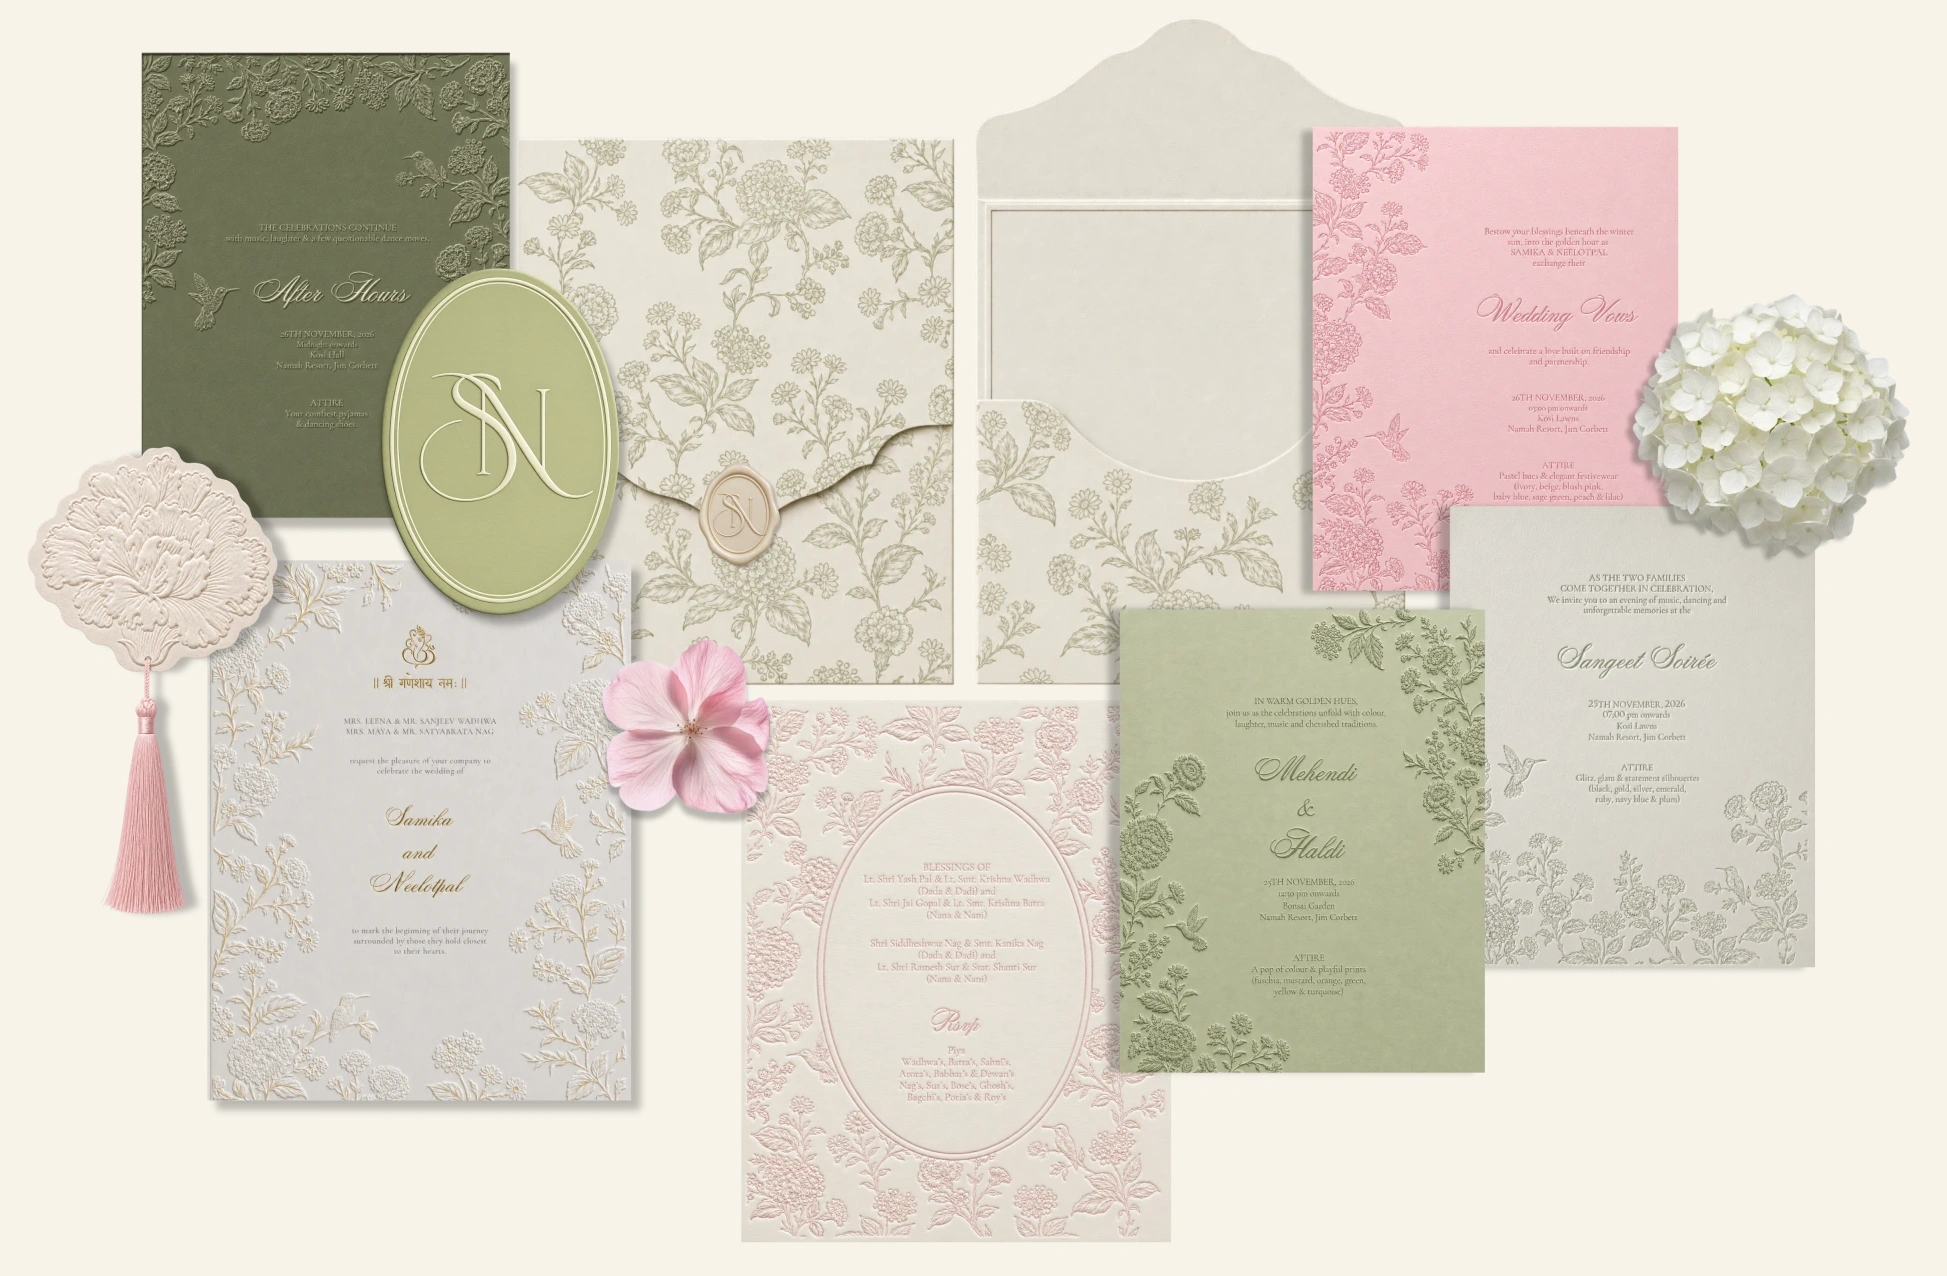
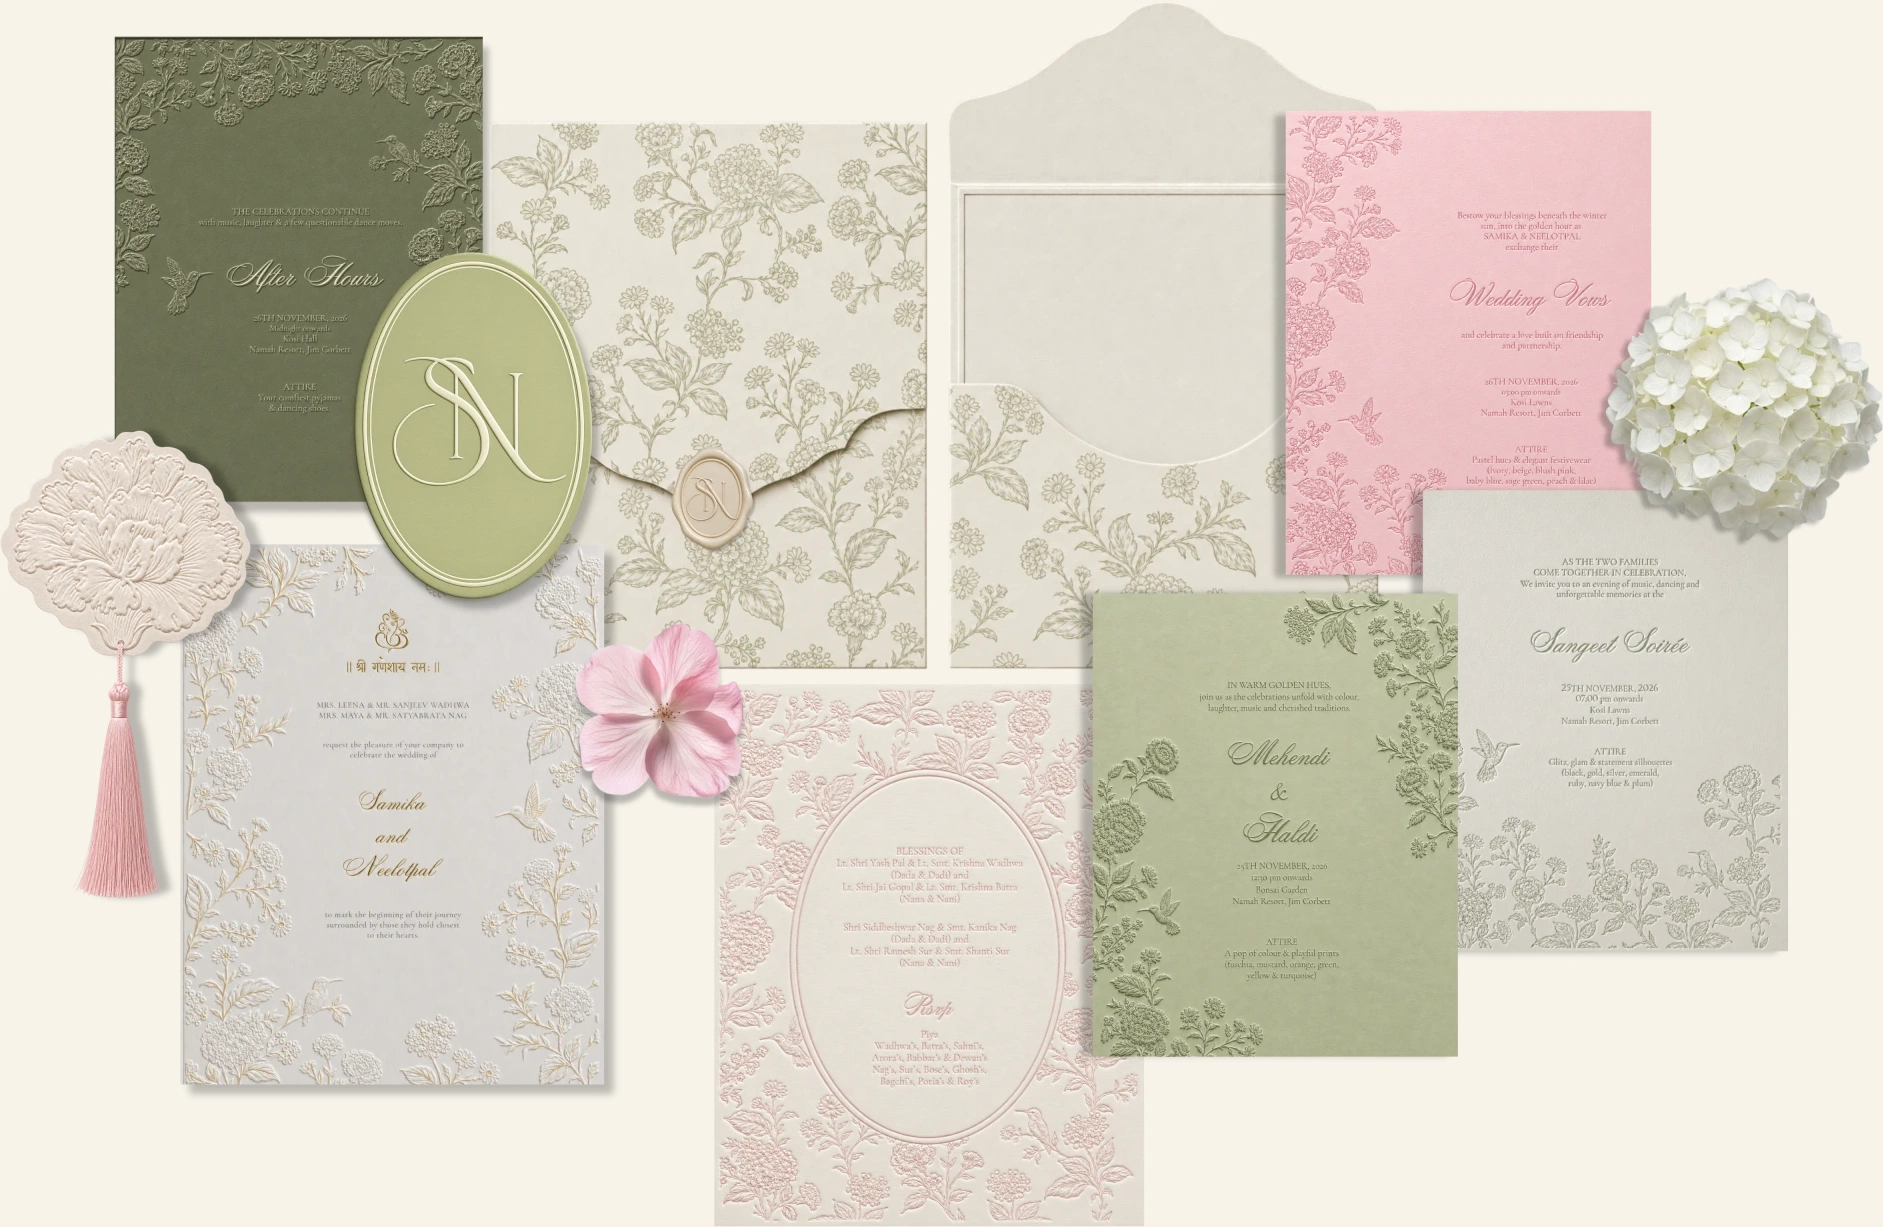
Update site

diff --git a/the-wedding/events.html b/the-wedding/events.html
@@ -14,7 +14,10 @@
 <style>
   /* the whole suite, laid out, before the individual cards */
   .suite {
-    padding: 6.4rem 1.4rem 2.8rem;
+    /* Top clears the menu pill (1.25rem + 52px) with a little air; the rest
+       is trimmed close, since the flat-lay is a short wide image and wide
+       padding left it swimming. */
+    padding: 5rem 0.6rem 1.4rem;
     text-align: center;
     opacity: 0;
     transition: opacity 0.6s ease;
